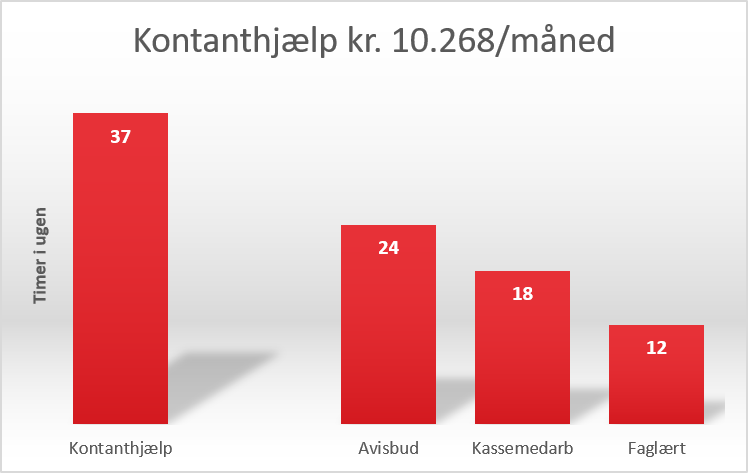
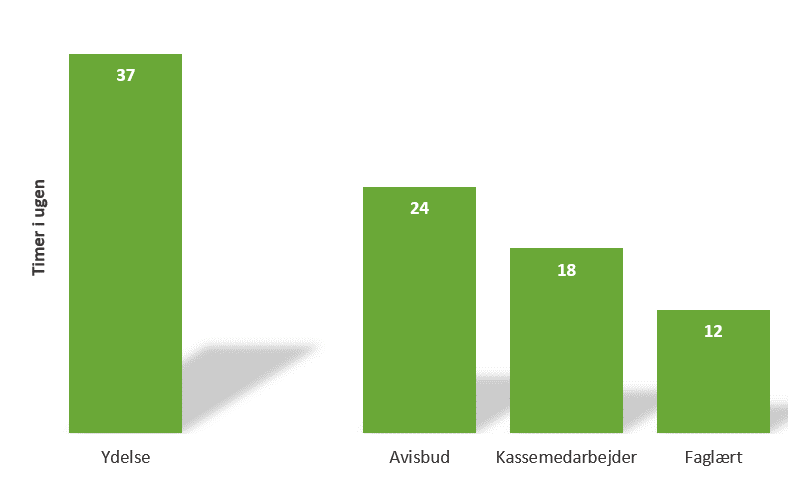
Nye billeder og billedtekst

diff --git a/Pages/Resultat.cshtml.cs b/Pages/Resultat.cshtml.cs
@@ -13,17 +13,25 @@ namespace Ydelsesberegner.Pages
         public string Text1 { get; set; }
         public string Text2 { get; set; }
 
+        public string ChartTitle { get; set; } 
+        public string ChartText { get; set; }
+
+
         public string Image { get; set; }
 
         
         class Udfald { 
 
-            public string mnd, time, type; 
-            public Udfald(string m, string t, string ty) 
+            public string mnd, time, type;
+            public int avis, kasse, fag;
+            public Udfald(string m, string t, string ty, int av, int ka, int fa) 
             { 
                 mnd = m; 
                 time = t;
                 type = ty;
+                avis = av;
+                kasse = ka;
+                fag = fa;
             } 
   
         }
@@ -98,20 +106,20 @@ namespace Ydelsesberegner.Pages
             Hashtable muligeUdfald = new Hashtable();
         
 
-            muligeUdfald.Add("A", new Udfald("15.355", "96", "kh"));
-            muligeUdfald.Add("B", new Udfald("11.554", "72", "kh"));
-            muligeUdfald.Add("C", new Udfald("14.677", "92", "kh"));
-            muligeUdfald.Add("D", new Udfald("10.268", "64", "kh"));
-            muligeUdfald.Add("E", new Udfald("7.448", "46", "kh"));
-            muligeUdfald.Add("F", new Udfald("3.594", "22", "kh"));
-            muligeUdfald.Add("G", new Udfald("6.331", "39", "uy"));
-            muligeUdfald.Add("H", new Udfald("2.728", "17",  "uy"));
-            muligeUdfald.Add("I", new Udfald("12.663", "79", "uy"));
-            muligeUdfald.Add("K", new Udfald("8.862", "55", "uy"));
-            muligeUdfald.Add("L", new Udfald("12.283", "77", "sh"));
-            muligeUdfald.Add("M", new Udfald("8.596", "54", "sh"));
-            muligeUdfald.Add("N", new Udfald("6.142", "38", "sh"));
-            muligeUdfald.Add("O", new Udfald("2.646", "17", "sh"));
+            muligeUdfald.Add("A", new Udfald("15.355", "96", "kh", 35, 27, 18));
+            muligeUdfald.Add("B", new Udfald("11.554", "72", "kh", 27, 21, 13));
+            muligeUdfald.Add("C", new Udfald("14.677", "92", "kh", 34, 26, 17));
+            muligeUdfald.Add("D", new Udfald("10.268", "64", "kh", 24, 18, 12));
+            muligeUdfald.Add("E", new Udfald("7.448", "46", "kh", 17, 13, 9));
+            muligeUdfald.Add("F", new Udfald("3.594", "22", "kh", 8, 6, 4));
+            muligeUdfald.Add("G", new Udfald("6.331", "39", "uy", 15, 11, 7));
+            muligeUdfald.Add("H", new Udfald("2.728", "17",  "uy", 6, 5, 3));
+            muligeUdfald.Add("I", new Udfald("12.663", "79", "uy", 29, 22, 15));
+            muligeUdfald.Add("K", new Udfald("8.862", "55", "uy", 20, 16, 10));
+            muligeUdfald.Add("L", new Udfald("12.283", "77", "sh", 28, 22, 14));
+            muligeUdfald.Add("M", new Udfald("8.596", "54", "sh", 20, 15, 10));
+            muligeUdfald.Add("N", new Udfald("6.142", "38", "sh", 14, 11, 7));
+            muligeUdfald.Add("O", new Udfald("2.646", "17", "sh", 6, 5, 3));
 
        
             //Tjekker i hashtable hvilket udfald det er pga af resultatet fra queryString, og henter de relevante data:
@@ -120,6 +128,10 @@ namespace Ydelsesberegner.Pages
             string ydelsesType = aktueltUdfald.type;
             string ydelseMnd = aktueltUdfald.mnd;
             string ydelseTime = aktueltUdfald.time;
+            
+            int timerAvis = aktueltUdfald.avis;
+            int timerKasse = aktueltUdfald.kasse;
+            int timerFag = aktueltUdfald.fag;
 
             
 
@@ -129,21 +141,52 @@ namespace Ydelsesberegner.Pages
                 case "kh": //Kontanthjælp
                     Text1 = Text1Del1 + ydelseMnd + KHText1Del2 + ydelseTime + Text1Del3 + KHText1Del4;
                     Text2 = KHText2;
+                    ChartTitle = "Kontanthjælp " + ydelseMnd + " kr./mnd";
+                    ChartText = "Diagrammet viser at du blot skal arbejde " +
+                                    timerAvis.ToString() +
+                                    " timer som avisbud, " +
+                                    timerKasse.ToString() +
+                                    " timer som kassemedarbejder, eller "+
+                                    timerFag.ToString() +
+                                    " timer som faglært, for at tjene det der svarer til" +
+                                    " kontanthjælpsydelsen" +
+                                    ", hvor du skal stå til rådighed i 37 timer.";
                     break;
 
                 case "uy": //Uddannelsesydelse
                     Text1 = Text1Del1 + ydelseMnd + UYText1Del2 + ydelseTime + Text1Del3 + UYText1Del4;
-                    Text2 = UYText2; 
+                    Text2 = UYText2;
+                    ChartTitle = "Uddannelseshjælp " + ydelseMnd + " kr./mnd";
+                    ChartText = "Diagrammet viser at du blot skal arbejde " +
+                            timerAvis.ToString() +
+                            " timer som avisbud, " +
+                            timerKasse.ToString() +
+                            " timer som kassemedarbejder, eller "+
+                            timerFag.ToString() +
+                            " timer som faglært, for at tjene det der svarer til" +
+                            " uddannelseshjælpen" +
+                            ", hvor du skal stå til rådighed i 37 timer.";
                     break;
 
                 case "sh": //selvforsørgelses- og hjemrejseydelse (S&H-ydelse)
                     Text1 = Text1Del1 + ydelseMnd + SHText1Del2 + ydelseTime + Text1Del3 + SHText1Del4;
-                    Text2 = SHText2; 
+                    Text2 = SHText2;
+                    ChartTitle = "S&H-ydelse " + ydelseMnd + " kr./mnd";
+                    ChartText = "Diagrammet viser at du blot skal arbejde " +
+                            timerAvis.ToString() +
+                            " timer som avisbud, " +
+                            timerKasse.ToString() +
+                            " timer som kassemedarbejder, eller "+
+                            timerFag.ToString() +
+                            " timer som faglært, for at tjene det der svarer til" +
+                            " S&H-ydelsen" +
+                            ", hvor du skal stå til rådighed i 37 timer.";
                     break;
 
             }
 
             Image = Resultat;
+            
             
             }
             
